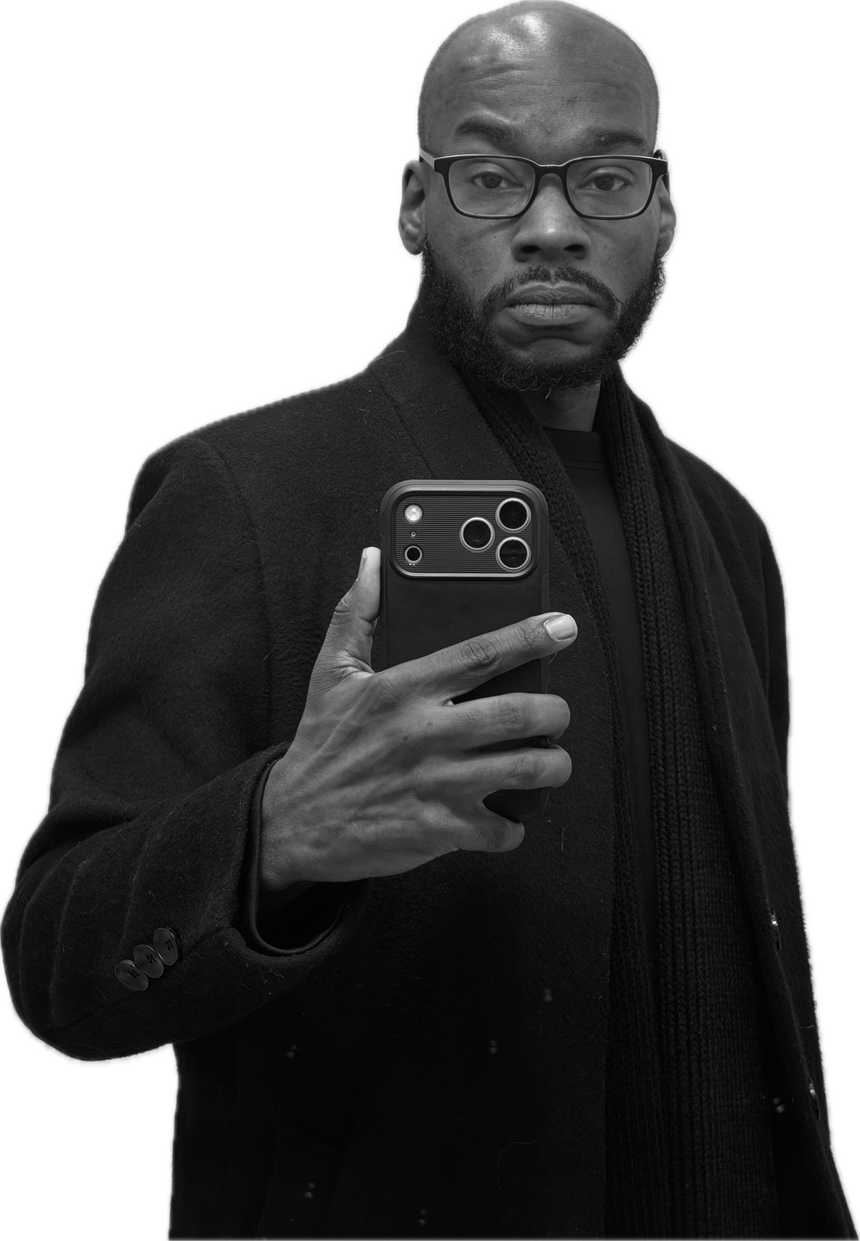
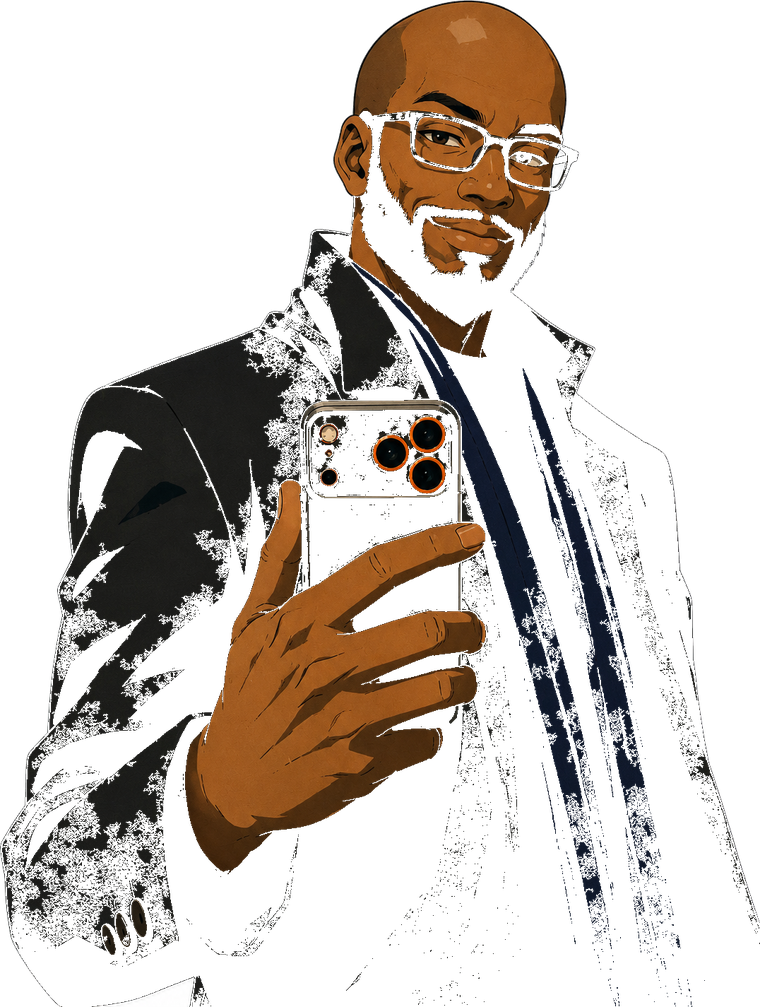
Swap founder portrait for stylized illustration
Replace B&W photo with the illustrated founder portrait (white bg removed via corner flood-fill, trimmed, 223KB WebP + PNG fallback). Drop grayscale filter to keep the color illustration; navy scarf ties to the brand. Bottom-fade mask + periwinkle halo retained.

diff --git a/styles.css b/styles.css
@@ -559,10 +559,10 @@ a { color: inherit; }
   width: 100%;
   height: auto;
   display: block;
-  filter: grayscale(1) contrast(1.06) brightness(0.97)
-          drop-shadow(0 10px 34px rgba(137, 161, 195, 0.22));
-  -webkit-mask-image: linear-gradient(to bottom, #000 70%, transparent 100%);
-          mask-image: linear-gradient(to bottom, #000 70%, transparent 100%);
+  filter: contrast(1.03) saturate(1.02)
+          drop-shadow(0 12px 36px rgba(137, 161, 195, 0.26));
+  -webkit-mask-image: linear-gradient(to bottom, #000 82%, transparent 100%);
+          mask-image: linear-gradient(to bottom, #000 82%, transparent 100%);
 }
 
 .founder__lead {
